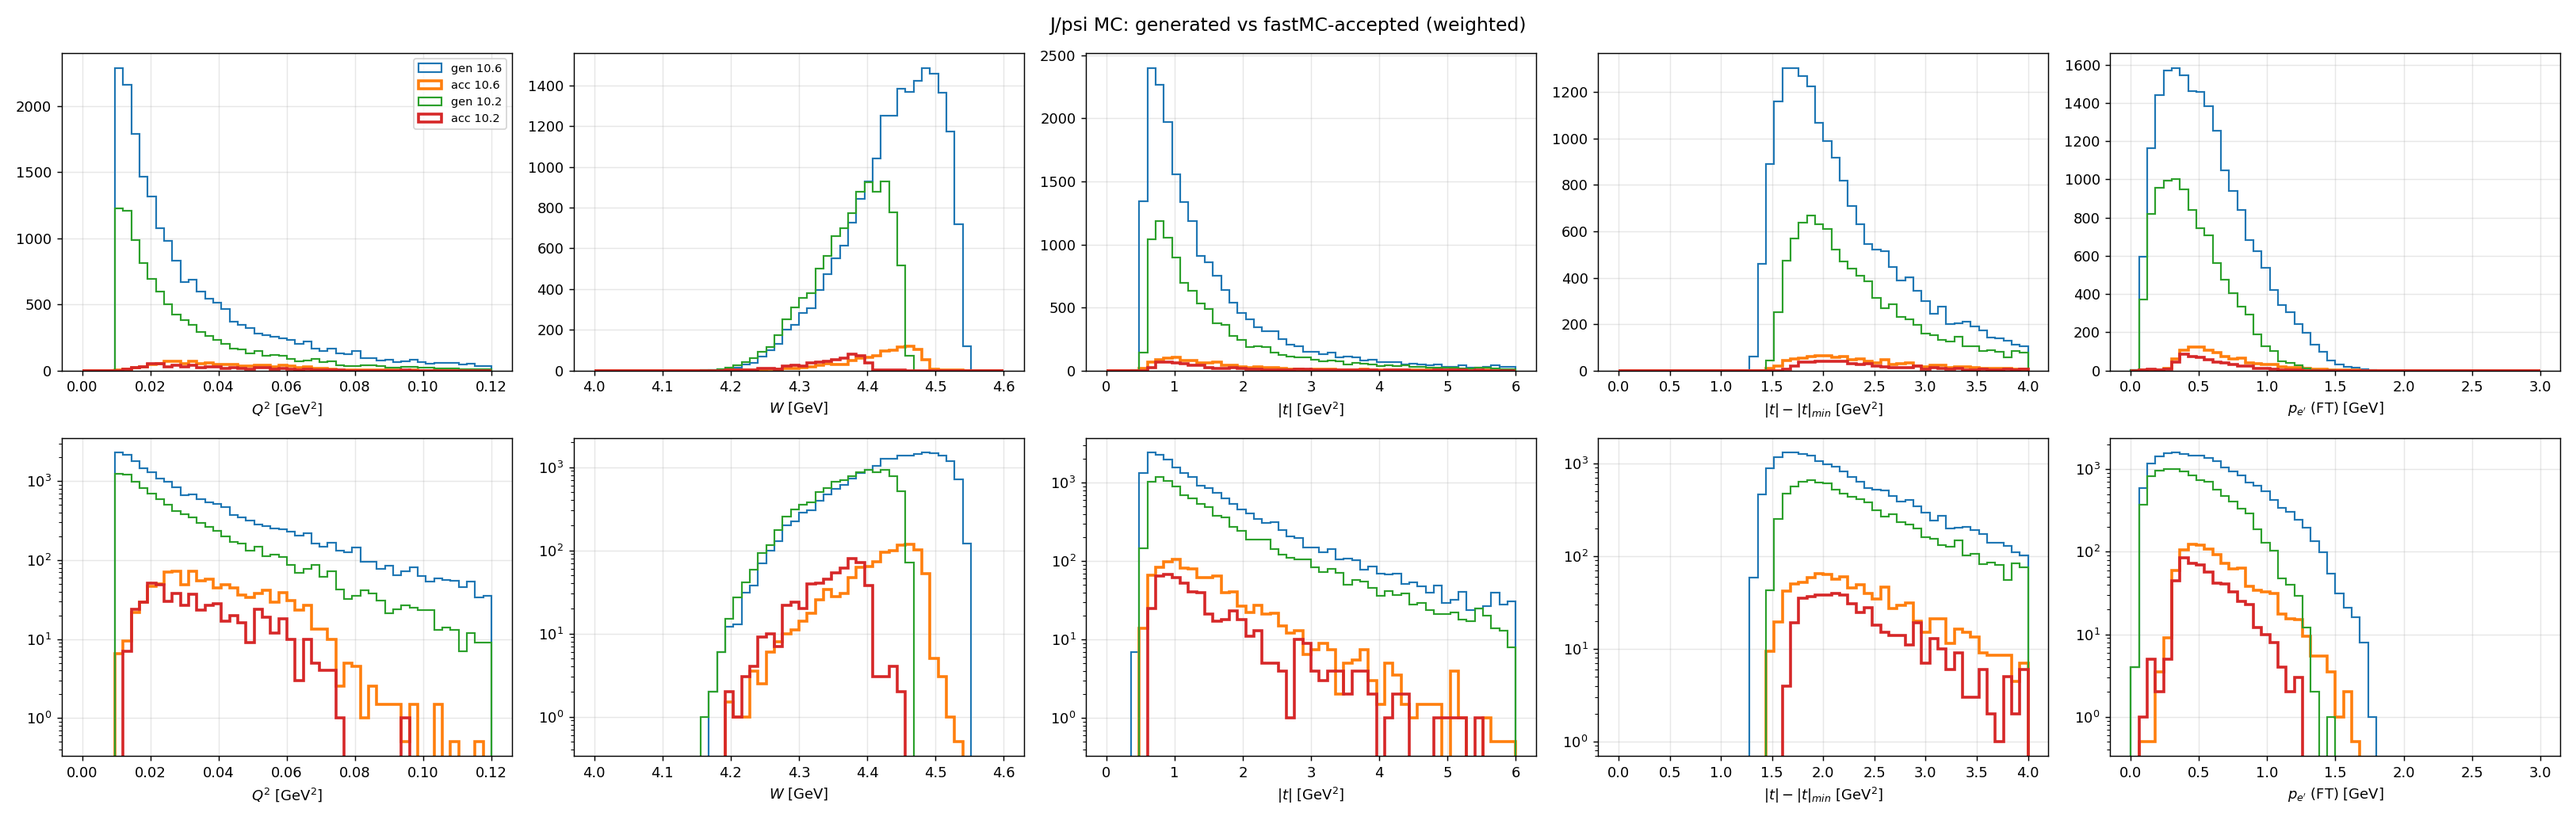
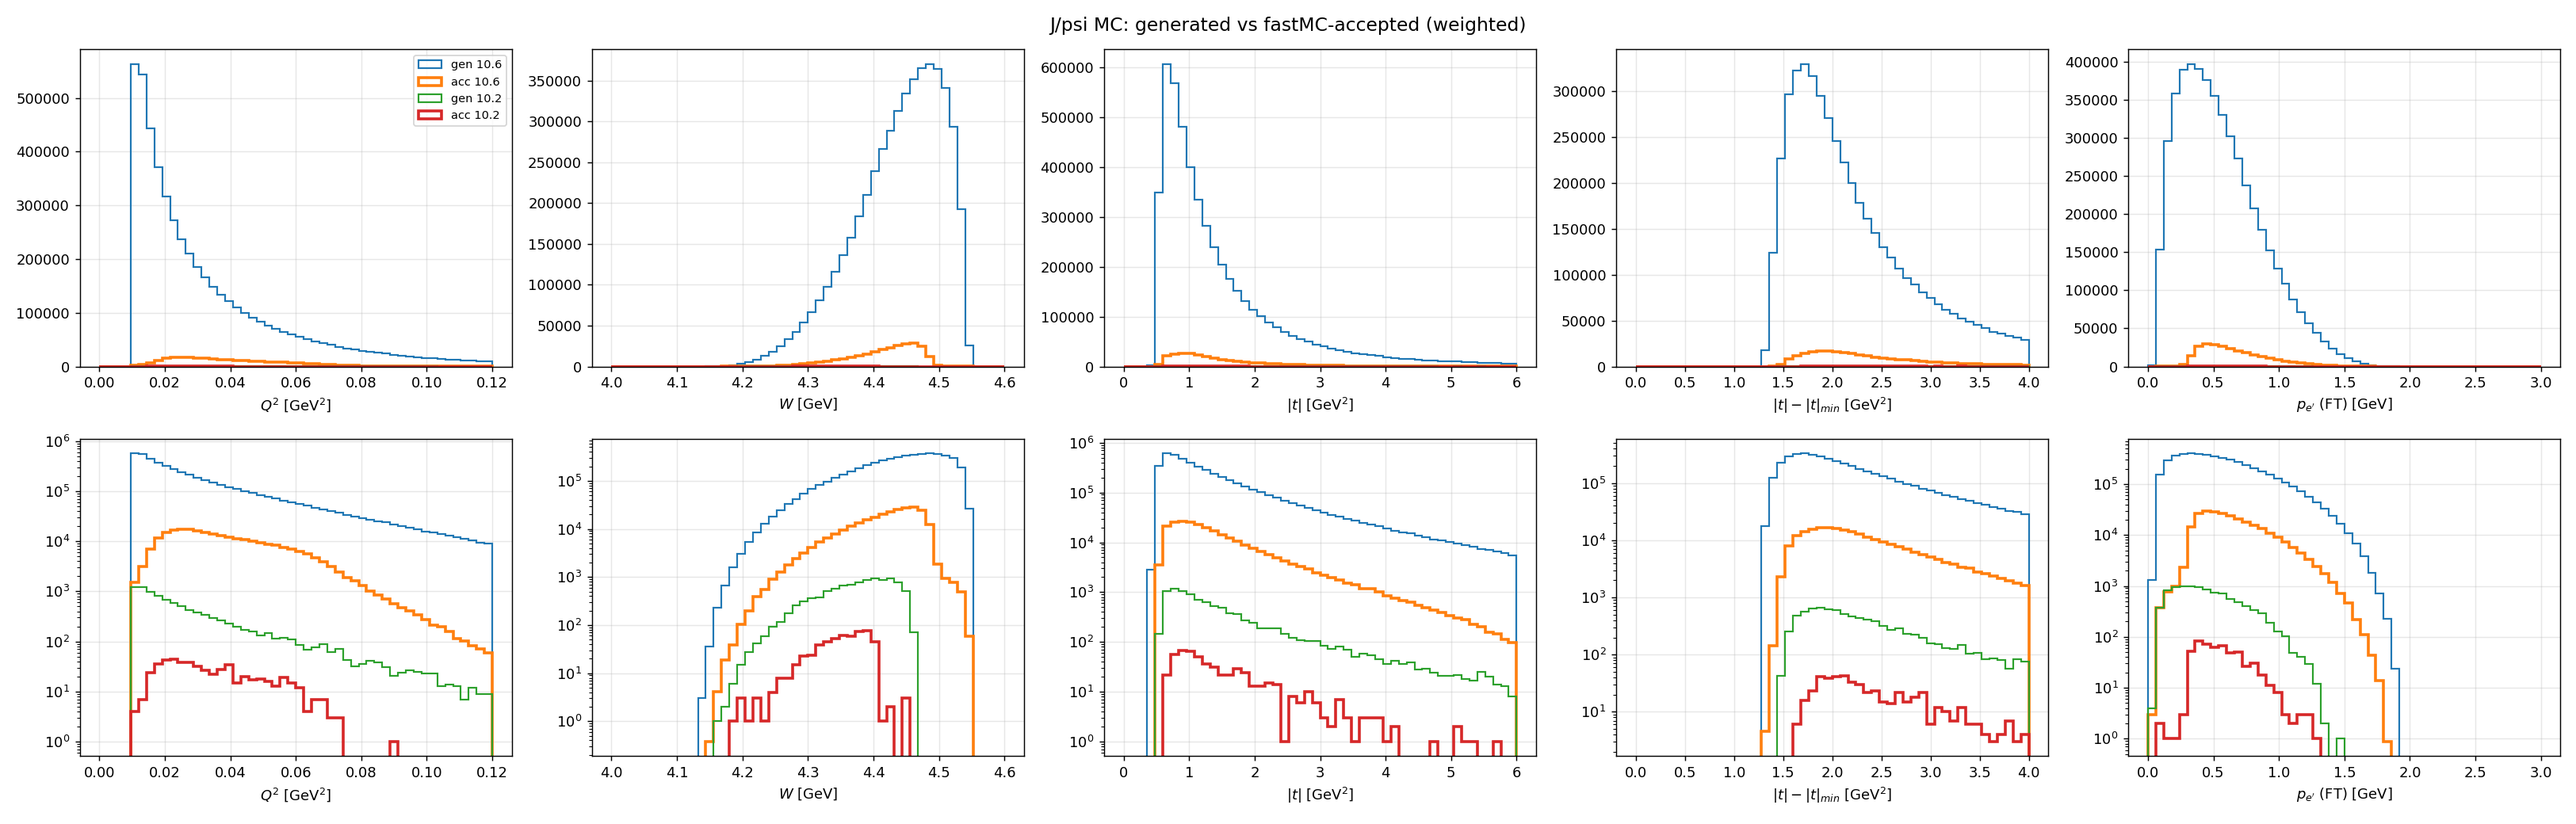
jpsi: rename generator to diffrad_jpsi_dipole (exp tag is phi's exponential t-form)

diff --git a/jpsi/jpsi_pipeline.py b/jpsi/jpsi_pipeline.py
@@ -2,7 +2,7 @@
 """
 jpsi_pipeline.py — Generate J/psi MC and run NN fastMC.
 
-  Step 1: Generate MC with diffrad_jpsi_exp (dipole t-form) per beam energy
+  Step 1: Generate MC with diffrad_jpsi_dipole per beam energy
   Step 2: FastMC — per-event acceptance weight = mean accept over the
           fastmc configs of that beam energy (e' in FT, e+/e-/p in FD)
   Output: npz cache per energy + generated-vs-accepted plots
@@ -24,7 +24,7 @@ sys.path.insert(0, str(Path.home() / "fastmc/scripts_jpsi"))
 from fast_mc import load_model_auto
 
 BASE      = Path(__file__).resolve().parent
-GENERATOR = BASE / "diffrad_jpsi_exp.exe"
+GENERATOR = BASE / "diffrad_jpsi_dipole.exe"
 DATA_ROOT = Path.home() / "Downloads/volatile/clas12/vpk/fastmc"
 LUND_ROOT = DATA_ROOT / "jpsi_mc"           # generated LUND files
 CACHE_ROOT = DATA_ROOT / "jpsi_tuning_cache" # npz caches
@@ -47,7 +47,7 @@ def compute_tmin(q2, xb):
 
 
 def step1_generate(cfg, ebeam_str):
-    """Run diffrad_jpsi_exp for one beam energy."""
+    """Run diffrad_jpsi_dipole for one beam energy."""
     gen = cfg["generation"]
     mp = {k: v["value"] for k, v in cfg["cross_section_model"]["parameters"].items()}
     nev = gen["energies"][ebeam_str]["nev"]
